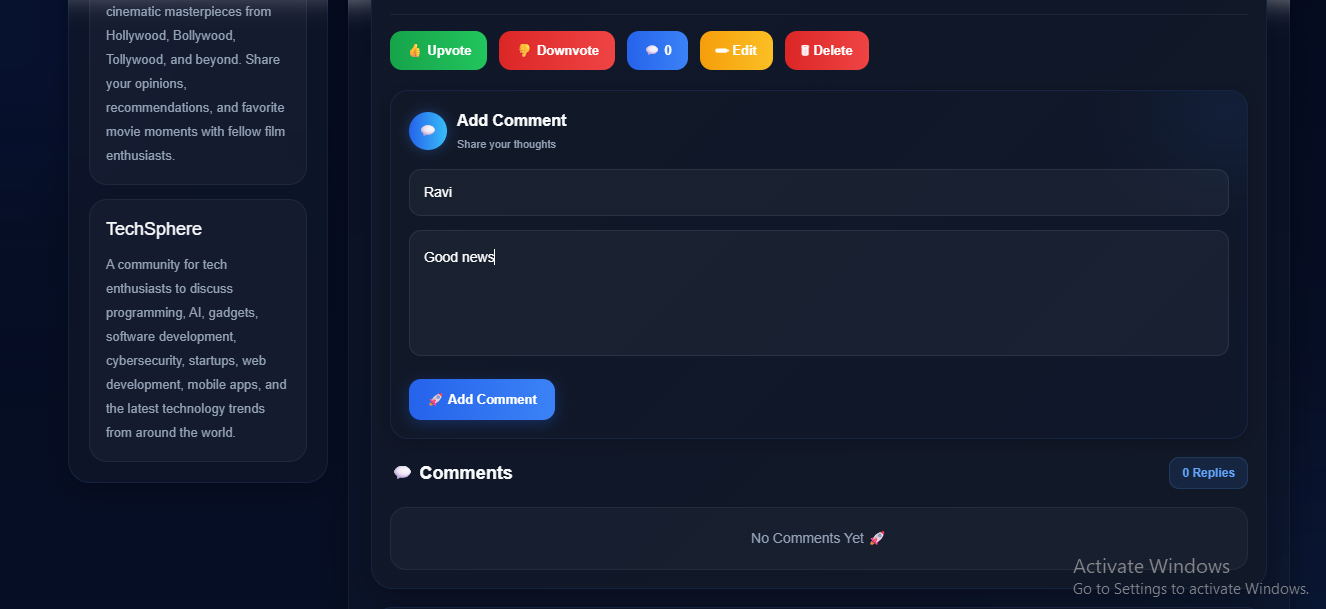
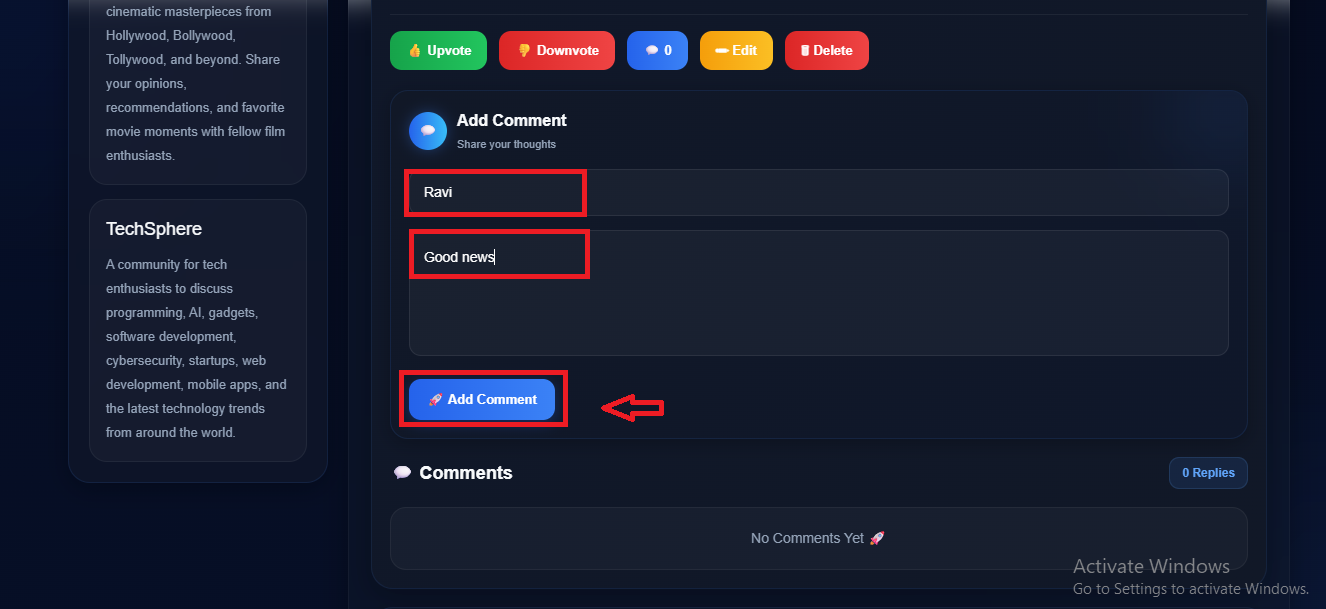
Updated README and screenshots

Changed region(s): [[0.2783, 0.2496, 0.4638, 0.468], [0.2783, 0.5928, 0.5256, 0.7176]]

diff --git a/README.md b/README.md
@@ -5,8 +5,8 @@
 ## 1. Introduction
 
 
+Social Reddit is a modern community-driven social media discussion platform developed to provide users with an interactive environment for sharing ideas and media content. The application includes features such as community creation, post sharing, commenting, image uploading, and voting systems similar to Reddit. Users can join communities based on their interests and participate in discussions with other users in a collaborative environment. The platform provides a clean, responsive, and user-friendly interface that works smoothly across desktop and mobile devices. Authenticated users can create posts with text and images, while the upvote and downvote system helps highlight valuable content. JWT authentication ensures secure login access and protected communication between frontend and backend services. The project uses ReactJS for frontend development, Spring Boot for backend API development, and PostgreSQL for database management. Overall, Social Reddit demonstrates real-world full-stack web development concepts and modern social networking application architecture.
 
-Social Reddit is a modern community-driven social media discussion platform developed to provide users with an interactive environment for sharing ideas, discussions, and media content. The application is inspired by Reddit and includes features such as community creation, post sharing, commenting, image uploading, and voting systems. Users can join different communities based on their interests and participate in discussions with other users in a collaborative environment. The platform focuses on improving user engagement through a clean, responsive, and user-friendly interface that provides a smooth experience across multiple devices. Social Reddit allows authenticated users to create posts containing text and images, helping users share information more effectively. The application also includes an upvote and downvote mechanism that helps highlight popular and valuable content within the platform. A secure JWT authentication system is implemented to ensure protected login access and secure communication between frontend and backend services. The project follows a full-stack architecture using ReactJS for frontend development and Spring Boot for backend API development. PostgreSQL is used as the relational database management system to store and manage data related to users, posts, communities, comments, and voting activities. REST APIs are used for seamless communication between the client and server, enabling efficient data exchange and real-time interaction. The frontend interface is designed to be responsive and visually appealing for both desktop and mobile users. The project demonstrates real-world implementation of social networking functionalities using modern development technologies and industry-standard practices. It also provides practical experience in frontend-backend integration, database management, authentication systems, API development, and scalable application design. Social Reddit serves as a strong portfolio project that showcases full-stack web development skills and understanding of modern social media application architecture.---
 
 
 